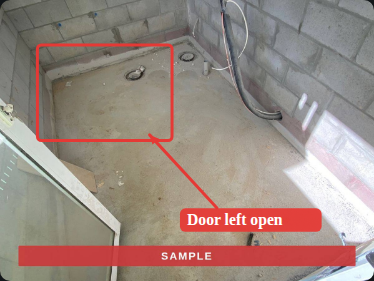
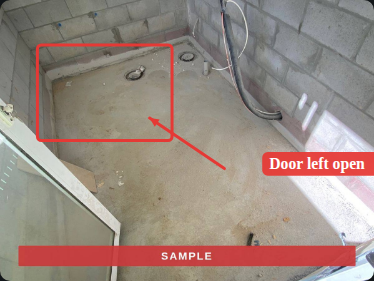
fix(hero): re-capture markup screenshots with the repositioned label
Reflects the annotation reposition in audit-snap-663 (5b316ee) - the
"Door left open" label no longer collides with the SAMPLE band.

diff --git a/src/config/media-manifest.js b/src/config/media-manifest.js
@@ -10,7 +10,7 @@
 
 export const SOURCE_APP = {
   repo: 'henrique919/audit-snap-663',
-  commit: '409ff0e0e019814fe592a95b53f34c46731d61b7', // re-captured after real photos replaced the synthetic gradient seed placeholders — see PUNCHTHIS_MARKETING_LOOP.md
+  commit: '5b316ee7caefcd84218527972126e42aebf4e0e0', // re-captured after fixing the "red on red" annotation-label/SAMPLE-band collision — see PUNCHTHIS_MARKETING_LOOP.md
   branch: 'claude/punchthis-design-review-vxgpzk',
   buildCommand: 'cd expo && npm run build:web',
 }